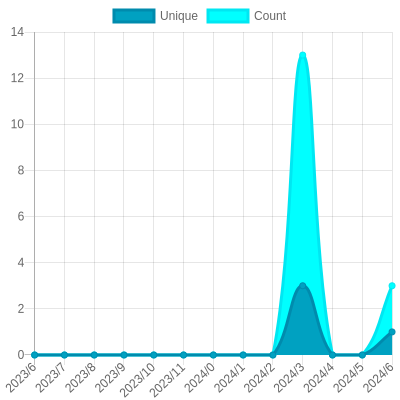
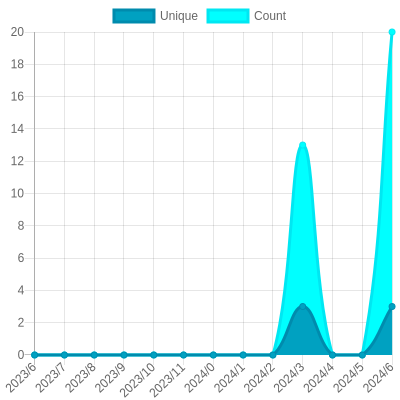
Update views

diff --git a/README.md b/README.md
@@ -26,7 +26,7 @@ The project created and maintained by [gayanvoice](https://github.com/gayanvoice
 			</a>
 		</td>
 		<td>
-			2023/7/28 12:51 AM UTC
+			2023/7/29 12:51 AM UTC
 		</td>
 		<td>
 			7
@@ -42,7 +42,7 @@ The project created and maintained by [gayanvoice](https://github.com/gayanvoice
 			</a>
 		</td>
 		<td>
-			2023/7/28 12:52 AM UTC
+			2023/7/29 12:52 AM UTC
 		</td>
 		<td>
 			17
@@ -53,7 +53,7 @@ The project created and maintained by [gayanvoice](https://github.com/gayanvoice
 	</tr>
 </table>
 
-<small><i>Last updated on 2023/7/30 6:11 PM UTC</i></small>
+<small><i>Last updated on 2023/7/31 12:55 AM UTC</i></small>
 
 ## ✂Copy and 📋 Paste
 ### Total Views Badge

diff --git a/readme/626890563/year.md b/readme/626890563/year.md
@@ -23,10 +23,10 @@
 			<code>2023/7/1</code>
 		</td>
 		<td>
-			<code>1</code>
+			<code>3</code>
 		</td>
 		<td>
-			<code>3</code>
+			<code>20</code>
 		</td>
 	</tr>
 	<tr>
@@ -164,7 +164,7 @@
 </table>
 
 </details>
-<small><i>Last updated on 2023/7/30 6:11 PM UTC</i></small>
+<small><i>Last updated on 2023/7/31 12:54 AM UTC</i></small>
 
 ## ✂Copy and 📋 Paste
 ### SVG Badge

diff --git a/readme/525326231/year.md b/readme/525326231/year.md
@@ -164,7 +164,7 @@
 </table>
 
 </details>
-<small><i>Last updated on 2023/7/30 6:11 PM UTC</i></small>
+<small><i>Last updated on 2023/7/31 12:54 AM UTC</i></small>
 
 ## ✂Copy and 📋 Paste
 ### SVG Badge
